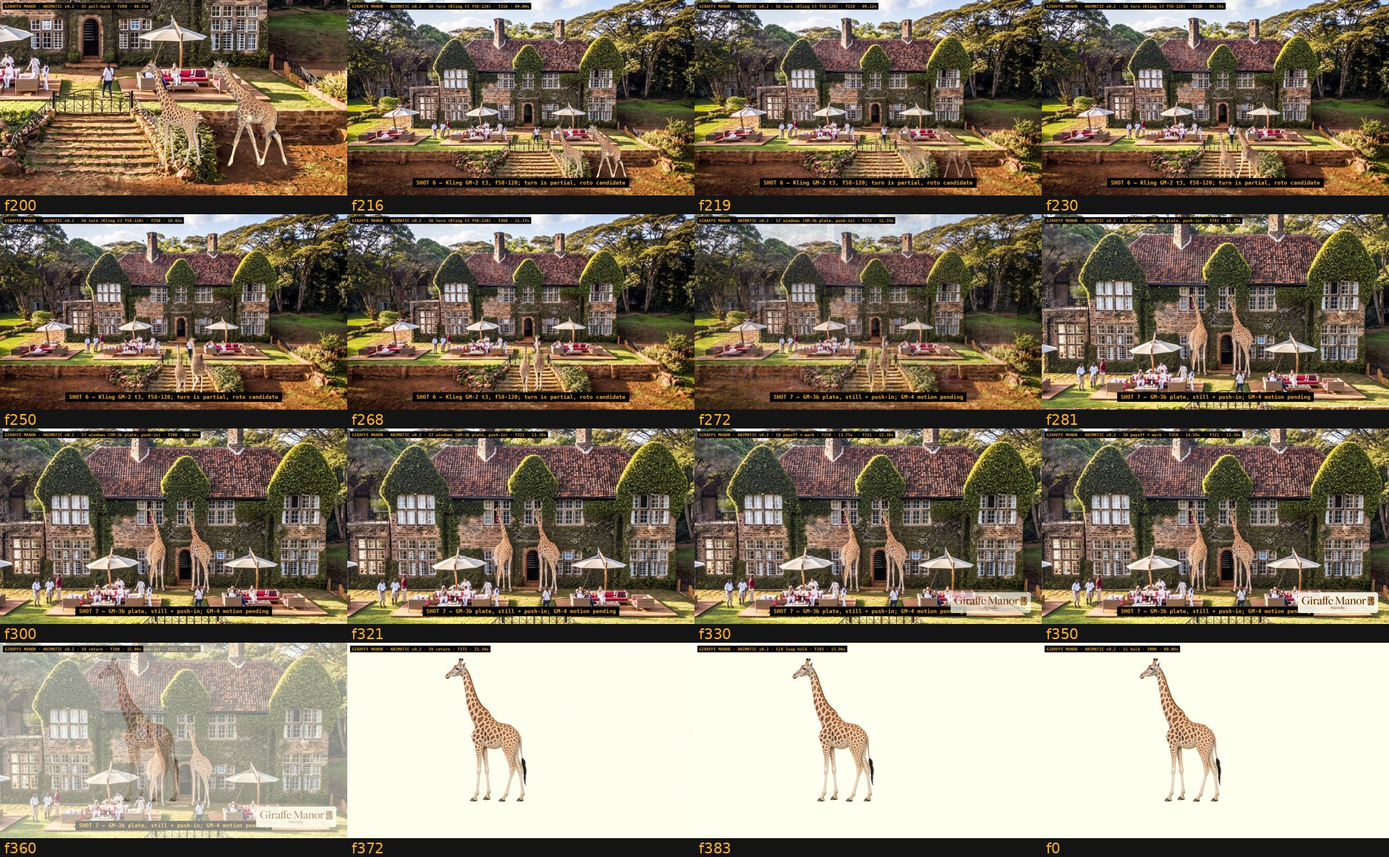
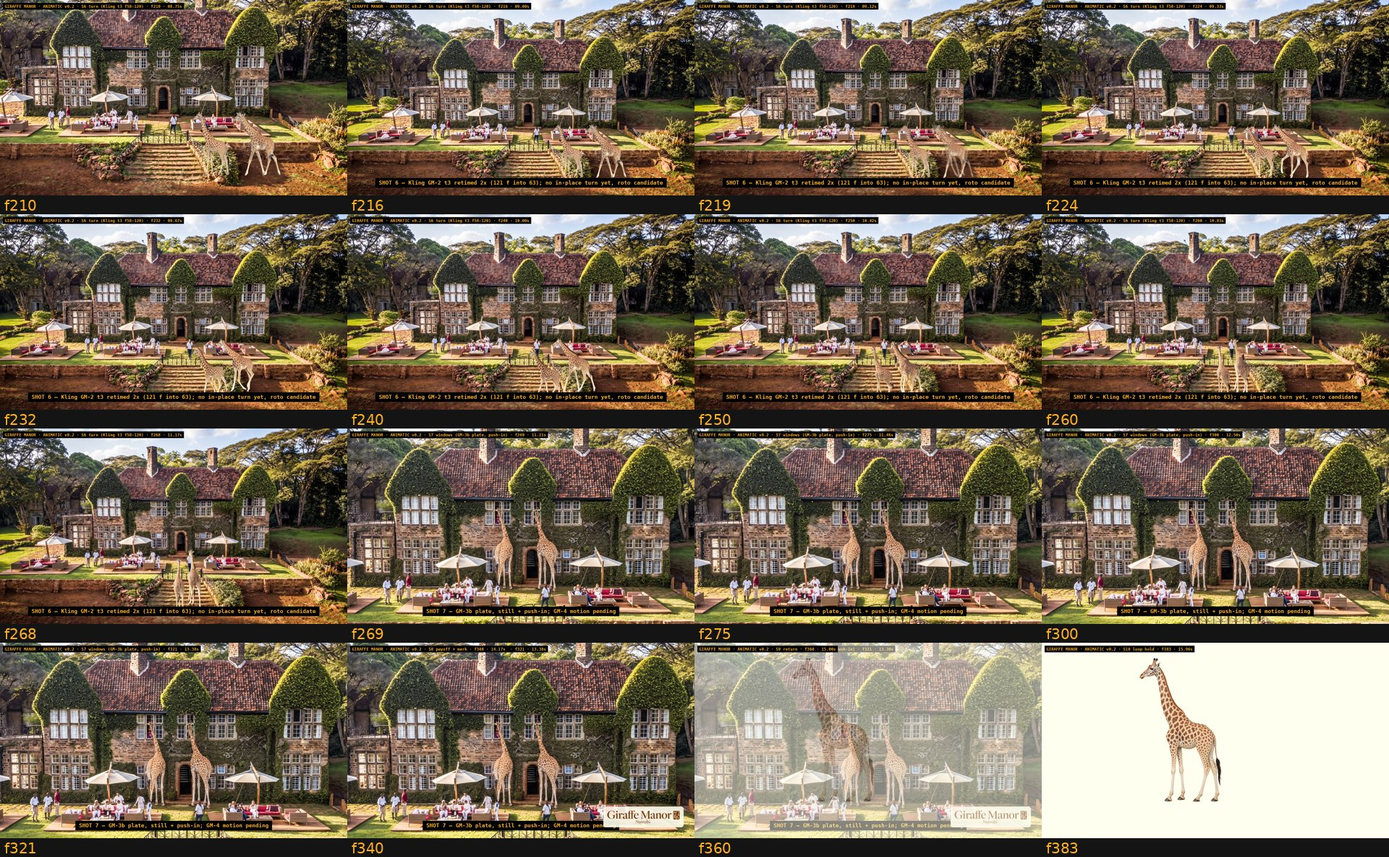
Animatic: do not burn captions into the cached shot 7 plate
Claude-Session: https://claude.ai/code/session_01WcJ3Mzan58cJTGoNgHZL7K

diff --git a/giraffe_manor/animatic/build_animatic.py b/giraffe_manor/animatic/build_animatic.py
@@ -37,7 +37,7 @@ WORDMARK = REPO / "assets" / "wordmarks" / "giraffe_manor_wordmark.png"
 # Shot boundaries in frames @24 (v2 board). Each entry: (name, in, out)
 SHOTS = [
     ("S1 hold", 0, 48), ("S2 logo", 48, 86), ("S3a enter", 86, 120), ("S3b stop", 120, 154),
-    ("S4 reveal", 154, 178), ("S5 pull-back", 178, 206), ("S6 turn (Kling t3 f58-120)", 206, 269),
+    ("S4 reveal", 154, 178), ("S5 pull-back", 178, 206), ("S6 turn (Kling GM-2 t3, 2x)", 206, 269),
     ("S7 windows (GM-3b plate, push-in)", 269, 322), ("S8 payoff + mark", 322, 351),
     ("S9 return", 351, 373), ("S10 loop hold", 373, 384),
 ]
@@ -313,7 +313,7 @@ def render_frame(A: Assets, f: int, burnin=True):
         # The necks-rise motion (GM-4) is not generated yet; this is a still with a push.
         t = ease((f - 269) / 53)
         # hard cut: shot 7 is a new framing of the same house, a dissolve across the zoom reads as an error
-        canvas = s7_plate(lerp(1.0, 1.04, t))
+        canvas = s7_plate(lerp(1.0, 1.04, t)).copy()   # copy: burn() must not draw into the cache
         extra = "SHOT 7 — GM-3b plate, still + push-in; GM-4 motion pending"
     elif 269 <= f < 322:
         # ---- S7 placeholder: dissolve (12 f) to the client reference of the payoff, slow push-in
